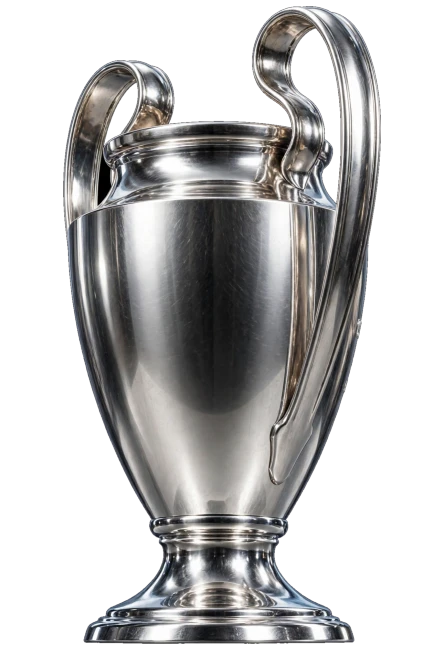
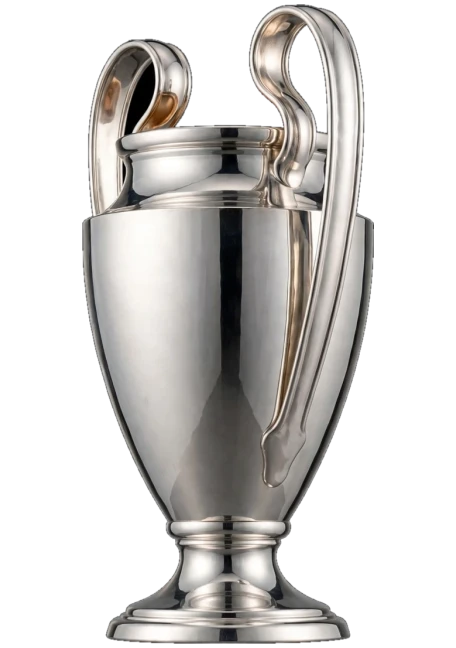
fix(dashboard): trophy rotation without ghost trails — 16 real angles, brief blends
Owner: the long crossfades left shadow trails behind the cup.
Root cause: blending two views 45 degrees apart keeps the old
view visible through the whole step. Fix: double the real
angles (16 frames, 22.5-degree steps; intermediates generated
as pair sheets, split on a clean valley, height-normalized;
three flawed back views replaced by mirrored counterparts where
the cup is symmetric and no engraving shows) and shorten the
blend to 0.25s of each 0.75s step — the frame is crisp almost
all the time, no lingering shadows. Still one-direction 360 in
12s; executed-path check shows the dominant angle running
2>3>...>15>0>1>2>3. Asset URLs bumped to ?v=3 (canvas 456x648).

diff --git a/frontend/web/app/dashboard.html b/frontend/web/app/dashboard.html
@@ -50,7 +50,7 @@
           <div><span>الترتيب العالمي</span><strong class="num" id="identity-rank">—</strong></div>
           <div><span>اللقب التنافسي</span><strong id="identity-title-rank">—</strong></div>
         </div>
-        <div class="identity-trophy"><span class="stage3d stage3d--trophy stage3d--photo"><i class="stage3d__shadow" aria-hidden="true"></i><span class="trophyHero" id="trophyHero"><img class="trophyHero__img" src="/shared/trophy-frames/f0.webp?v=2" alt="كأس الساحة" width="445" height="648"><img class="trophyHero__img trophyHero__layer--top" src="/shared/trophy-frames/f1.webp?v=2" alt="" aria-hidden="true" width="445" height="648"><span class="trophyHero__reflWrap" aria-hidden="true"><img class="trophyHero__refl" src="/shared/trophy-frames/f0.webp?v=2" alt="" width="445" height="648"><img class="trophyHero__refl trophyHero__layer--top" src="/shared/trophy-frames/f1.webp?v=2" alt="" width="445" height="648"></span></span></span><span>كأس الساحة</span></div>
+        <div class="identity-trophy"><span class="stage3d stage3d--trophy stage3d--photo"><i class="stage3d__shadow" aria-hidden="true"></i><span class="trophyHero" id="trophyHero"><img class="trophyHero__img" src="/shared/trophy-frames/f0.webp?v=3" alt="كأس الساحة" width="456" height="648"><img class="trophyHero__img trophyHero__layer--top" src="/shared/trophy-frames/f1.webp?v=3" alt="" aria-hidden="true" width="456" height="648"><span class="trophyHero__reflWrap" aria-hidden="true"><img class="trophyHero__refl" src="/shared/trophy-frames/f0.webp?v=3" alt="" width="456" height="648"><img class="trophyHero__refl trophyHero__layer--top" src="/shared/trophy-frames/f1.webp?v=3" alt="" width="456" height="648"></span></span></span><span>كأس الساحة</span></div>
       </section>
 
       <section class="journey card" id="journey" hidden aria-labelledby="journey-title">
@@ -146,15 +146,15 @@
   <script src="/shared/nav.js"></script>
   <script src="/shared/arena3d.js?v=11"></script>
   <script>
-    /* Trophy rotator: crossfades between the 8 rendered angles so the cup
-       turns continuously (one 45-degree step every 1.5s, a full revolution
-       in 12s) with no dwell and no jumps. CSS transition duration and
-       STEP must stay equal. Falls back to the static render on error or
-       for prefers-reduced-motion. */
+    /* Trophy rotator: steps through 16 rendered angles (22.5 degrees
+       apart) with a brief 0.25s blend between them — dense enough that
+       the cup turns cleanly with no lingering ghost images. One step
+       every 0.75s, a full revolution in 12s. Falls back to the static
+       render on error or for prefers-reduced-motion. */
     (function () {
       var hero = document.getElementById("trophyHero");
       if (!hero) return;
-      var STATIC = "/shared/ucl-trophy.webp?v=2";
+      var STATIC = "/shared/ucl-trophy.webp?v=3";
       var mains = hero.querySelectorAll(".trophyHero__img");
       var refls = hero.querySelectorAll(".trophyHero__refl");
       var all = Array.prototype.slice.call(hero.querySelectorAll("img"));
@@ -168,8 +168,8 @@
         all.forEach(function (im) { im.src = STATIC; });
         return;
       }
-      var FRAMES = 8, STEP = 1500, idx = 0, showSecond = true;
-      function src(i) { return "/shared/trophy-frames/f" + i + ".webp?v=2"; }
+      var FRAMES = 16, STEP = 750, idx = 0, showSecond = true;
+      function src(i) { return "/shared/trophy-frames/f" + i + ".webp?v=3"; }
       for (var i = 0; i < FRAMES; i++) { var p = new Image(); p.src = src(i); }
       timer = setInterval(function () {
         idx = (idx + 1) % FRAMES;

diff --git a/frontend/shared/theme.css b/frontend/shared/theme.css
@@ -742,7 +742,7 @@ tr.is-me td:first-child { border-inline-start: 3px solid var(--neon); }
 .trophyHero__img { position: absolute; left: 50%; top: 1%; transform: translateX(-50%); height: 75%; width: auto; display: block; filter: drop-shadow(0 5px 8px rgba(0,0,0,.5)); }
 .trophyHero__reflWrap { position: absolute; left: 50%; top: 77%; transform: translateX(-50%); height: 75%; display: block; opacity: .26; -webkit-mask-image: linear-gradient(to bottom, #000 0%, rgba(0,0,0,0) 52%); mask-image: linear-gradient(to bottom, #000 0%, rgba(0,0,0,0) 52%); }
 .trophyHero__refl { height: 100%; width: auto; display: block; transform: scaleY(-1); }
-.trophyHero__img, .trophyHero__refl { transition: opacity 1.5s linear; }
+.trophyHero__img, .trophyHero__refl { transition: opacity .25s linear; }
 .trophyHero__layer--top { opacity: 0; }
 .trophyHero__refl.trophyHero__layer--top { position: absolute; left: 0; top: 0; }
 .identity-trophy { display: grid; justify-items: center; align-content: center; gap: 6px; color: var(--muted); font-size: .85rem; text-align: center; }
